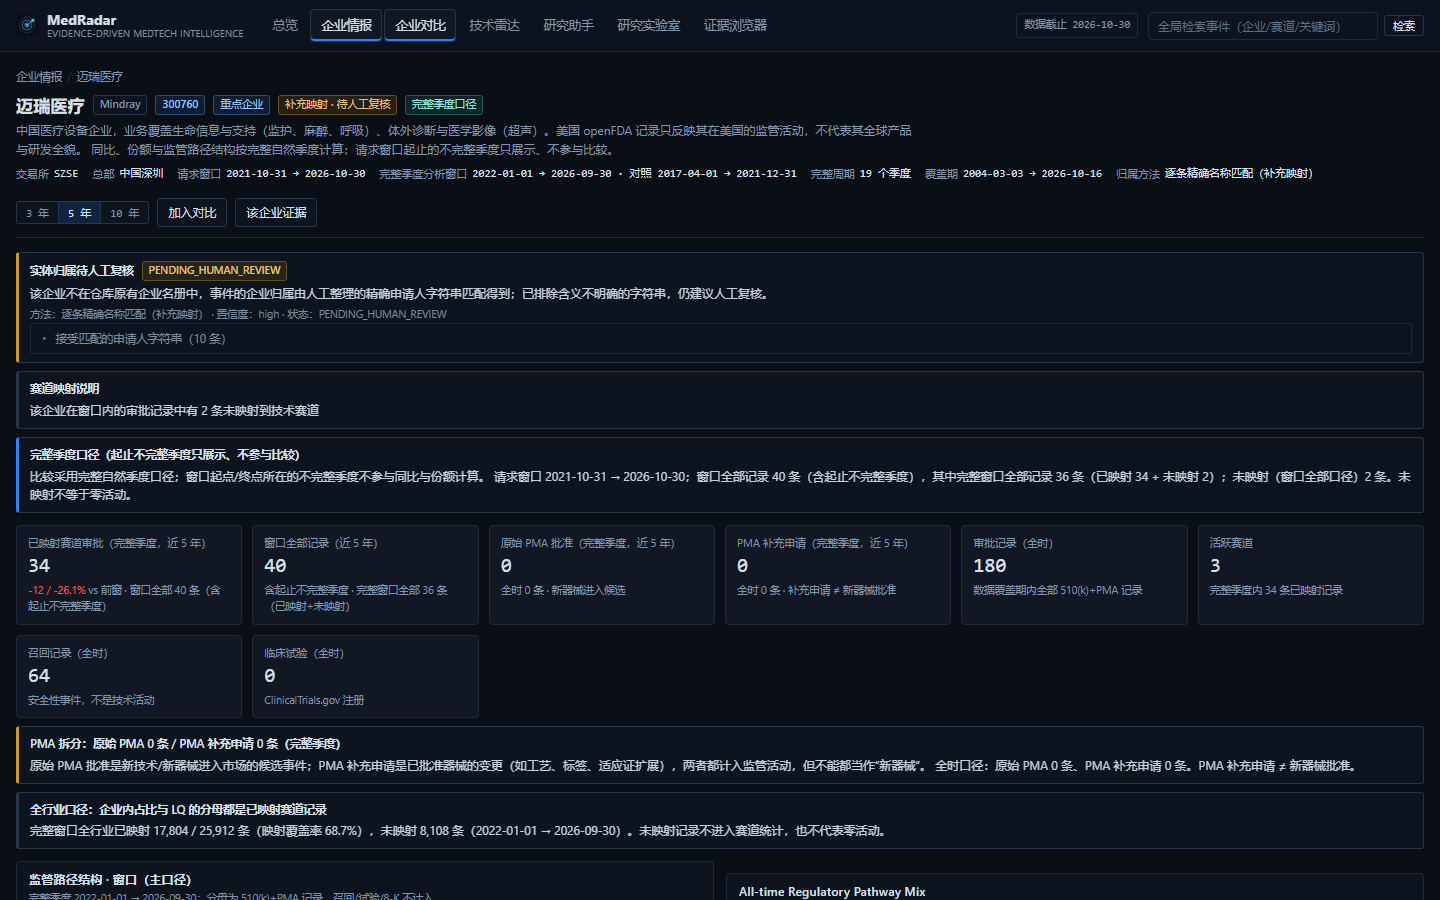
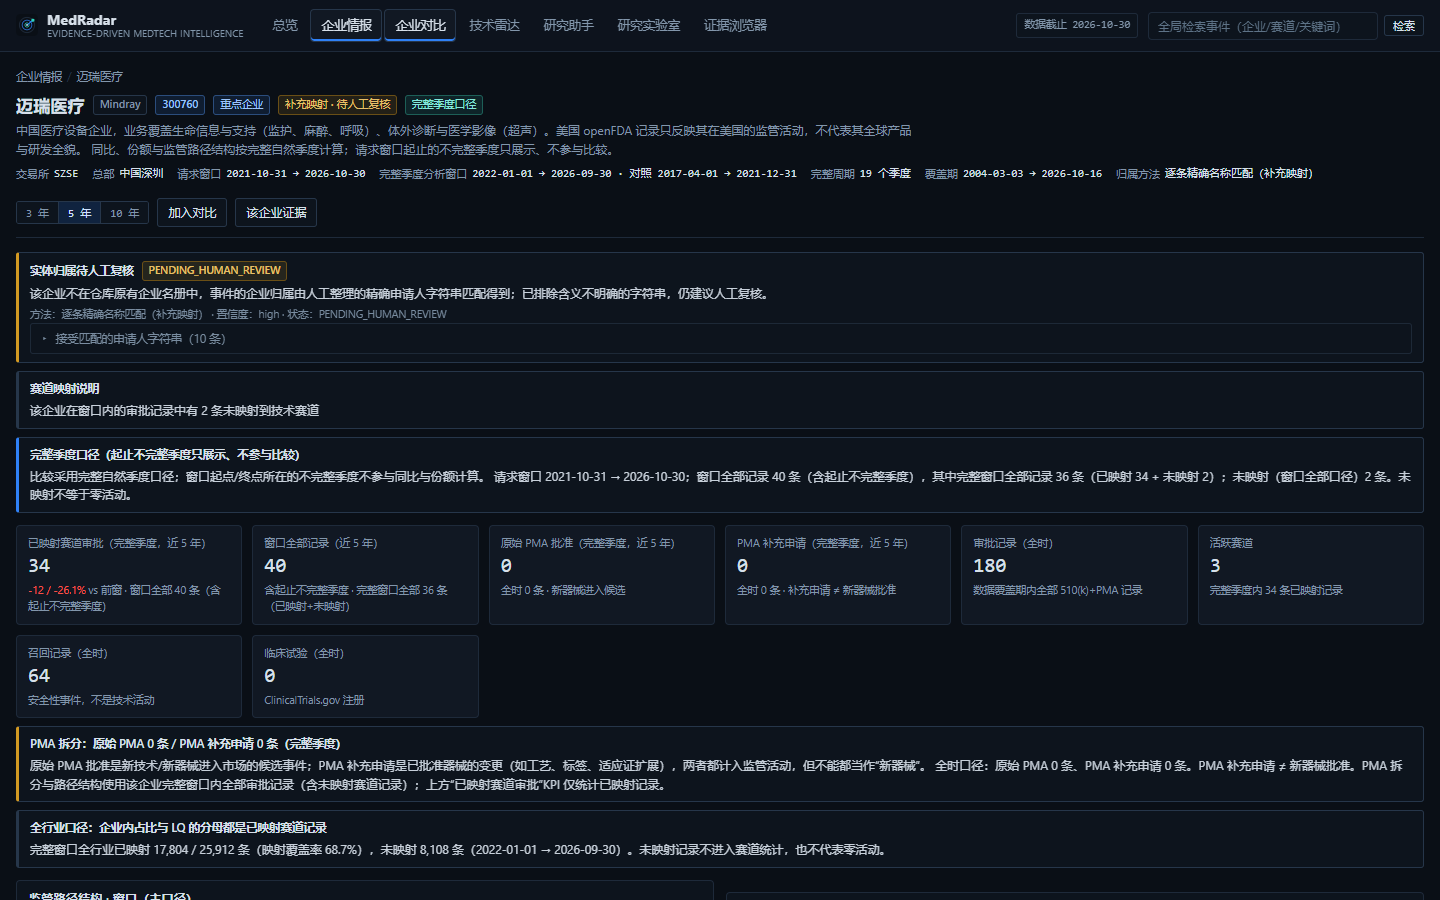
fix(product): label all-time pathway basis correctly and refresh assets
R1 from the independent re-acceptance: when /api/compare is called with
include_all_time=true, the returned pathway_all_time.basis was still
"complete_window_approvals_only" although its window starts at 1900-01-01.
It is now "all_time_approvals_only" with an explicit note (numbers unchanged),
and the API test asserts it.

Also refreshes committed docs/product screenshots after the D4 label change and
records the follow-up fix section in PRODUCT_STATISTICAL_AUDIT.

Changed region(s): [[0.0, 0.84, 0.9688, 1.0]]

diff --git a/medradar/product/store.py b/medradar/product/store.py
@@ -2660,7 +2660,15 @@ def company_compare(keys: tuple[str, ...], metric: str = "approvals", years: int
             all_total = mapped_total + unmapped
             prior_mapped_total = sum(priors.values())
             prior_all_total = prior_mapped_total + prior_unmapped
-            pathway_all_time = company_pathway_window(key, "1900-01-01", end) if include_all_time else None
+            if include_all_time:
+                pathway_all_time = dict(company_pathway_window(key, "1900-01-01", end))
+                pathway_all_time["basis"] = "all_time_approvals_only"
+                pathway_all_time["note_zh"] = (
+                    "全历史审批路径结构（1900-01-01 至数据截止），只作为背景，"
+                    "不能解释为当前研究窗口内的结构。"
+                )
+            else:
+                pathway_all_time = None
             companies.append(
                 {
                     "key": key,

diff --git a/tests/test_product_api.py b/tests/test_product_api.py
@@ -125,6 +125,7 @@ def test_compare_all_time_pathway_is_opt_in():
     ).json()
     for company in requested["companies"]:
         assert company["pathway_all_time"] is not None
+        assert company["pathway_all_time"]["basis"] == "all_time_approvals_only"
         assert company["pathway_all_time"]["window"]["start"] < requested["analysis_window"]["analysis_start"]
 
 

diff --git a/web/CONTRACT.md b/web/CONTRACT.md
@@ -87,7 +87,7 @@ metrics{recent,prior,delta,pct_change,industry_*,share_*,pma_original_recent,pma
 k510_traditional_recent,low_volume,basis:"complete_quarters"},window{basis:"complete_quarters"},
 evidence_params}],entity_review[],limitations[],flags{pma_mix_note_zh,...}}`
 
-### GET /api/compare?companies=a,b,c&metric=approvals&years=5&granularity=quarter
+### GET /api/compare?companies=a,b,c&metric=approvals&years=5&granularity=quarter&include_all_time=false
 `{companies[{key,name_zh,ticker,featured,roster_present,series[{period,count,partial,complete,source_lag_risk}],
 total,total_all,total_all_window,total_mapped,total_unmapped,mapping_coverage,
 prior_total,prior_total_all,prior_total_mapped,prior_total_unmapped,prior_mapping_coverage,
